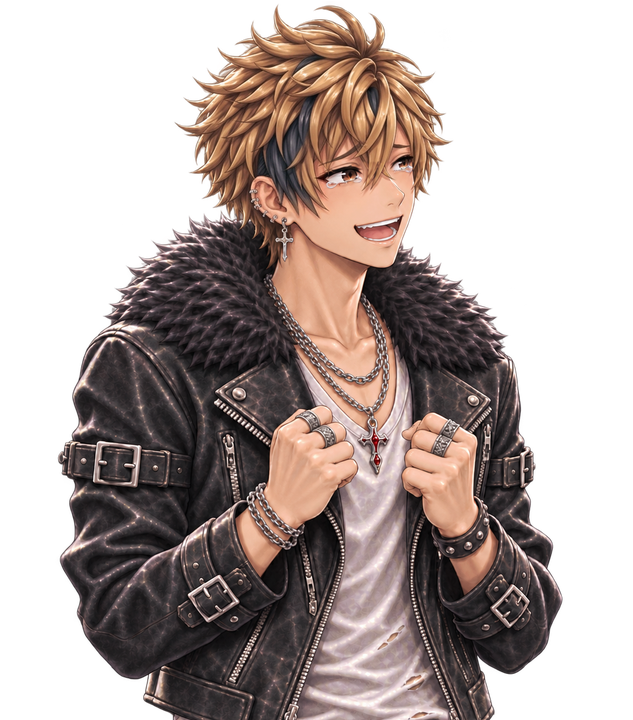
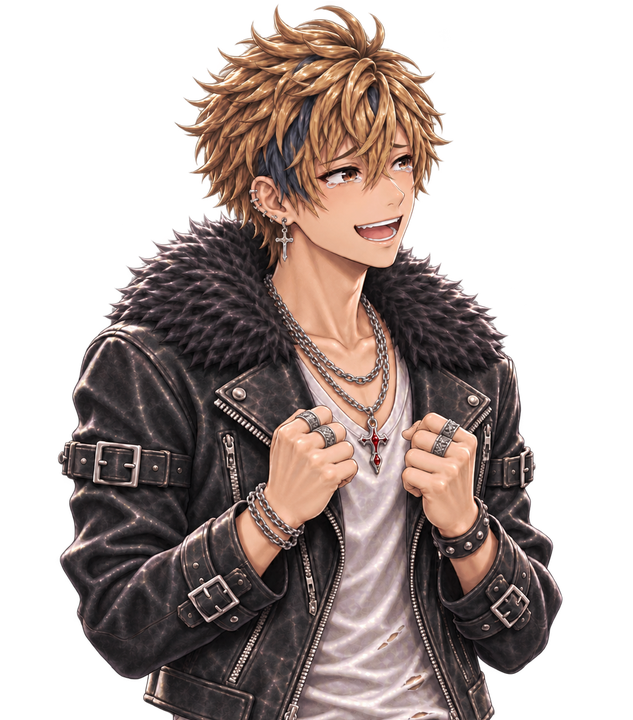
main を v1.0 の中身に戻す（v1.1 はブランチ version-1.1 へ）
版は v1.0 で固定し、v1.0 のあとの直しはブランチ version-1.1 に分けた。
README の遊ぶには を v1.0 の zip に戻し、v1.1 で足したものの記録には「v1.1 だけ」と書いた。

Changed region(s): [[0.3002, 0.0306, 0.6904, 0.3056]]

diff --git a/README.md b/README.md
@@ -13,9 +13,9 @@
 
 ## 遊ぶには（Windows）
 
-Release（https://github.com/fwaohaoi1g168/game1/releases/latest ）の `game1-1.1-win.zip` を落として展開し、`game1\tyranoproject.exe` を起動する。2026-11-08 に作った版（v1.1）で、11/7 に足した、ショップの客のビフォー・アフターの立ち絵と、髪のモアレを直した立ち絵が入っている。作りは ティラノスクリプト v6.03。
+Release（https://github.com/fwaohaoi1g168/game1/releases/latest ）の `game1-win.zip`（v1.0）を落として展開し、`game1\tyranoproject.exe` を起動する。外付けの目の取り込みに使ったのと同じ、2026-11-06 に書き出した版。作りは ティラノスクリプト v6.03。
 
-外付けの目の取り込みに使ったのは、2026-11-06 に書き出した版（Release `v1.0` の `game1-win.zip`）。
+このブランチ（`main`）は v1.0 の中身。v1.0 のあとに直したもの（場面1のショップの客のビフォー・アフターの立ち絵、客とタクミの髪のモアレ）は、ブランチ `version-1.1` と Release `v1.1`（`game1-1.1-win.zip`）にある。下の「作ったもの、借りたもの」などには v1.1 で足したもの・直したものも書いてあり、そこには「v1.1 だけ」と書いた。
 
 ## ライセンス
 
@@ -56,7 +56,7 @@ Built with Claude: Japan 2026 の期間中（2026-11-02 12:30 のキックオフ
 | --- | --- | --- |
 | 台本（`data/scenario/story.ks` など）とゲームの組み立て | Claude Code（Anthropic）が、作者の決めた筋と指示をもとに書いた。作者が読んで直すところを指示した | 11/3〜11/7 |
 | セーブ・ロード・メニューなどの画面の部品、タイトルのボタン（`data/others/koden/`、`data/image/config_koden/`、`data/image/title/koden_*`） | Claude Code が、プログラム（Python の Pillow）で描いた。文字は Windows のメイリオと游明朝 | 11/6 |
-| 背景、人物の立ち絵、一枚絵 | OpenAI の画像生成（Codex に入っているもの）で作った。場面1の客とタクミの立ち絵は、髪の塗りを Google Antigravity の画像生成で直し、Claude Code が書いたプログラムで髪の部分だけを元の絵に重ねた。大きさと位置の調整も Claude Code が書いたプログラムでした | 11/5〜11/7 |
+| 背景、人物の立ち絵、一枚絵 | OpenAI の画像生成（Codex に入っているもの）で作った。場面1の客とタクミの立ち絵は（v1.1 だけ）、髪の塗りを Google Antigravity の画像生成で直し、Claude Code が書いたプログラムで髪の部分だけを元の絵に重ねた。大きさと位置の調整も Claude Code が書いたプログラムでした | 11/5〜11/7 |
 | 声（`data/sound/voice/`、84本） | Gemini TTS（Google）で作った。作る手順は Claude Code が書いた。音声には SynthID の透かしが入る | 11/5〜11/6 |
 | BGM（`data/bgm/`、6曲） | 作者が Gemini（Google）で作った。全部インスト（歌なし） | 11/4〜11/6 |
 | ゲームの仕組み | ティラノスクリプト v6.03（このリポジトリには入れていない） | — |
@@ -64,7 +64,7 @@ Built with Claude: Japan 2026 の期間中（2026-11-02 12:30 のキックオフ
 ### 使った生成 AI の道具とプラン
 
 - 絵：OpenAI の画像生成（Codex に入っているもの）。作者の ChatGPT Plus（有料）のアカウントで使った
-- 絵の直し（客とタクミの髪）：Google Antigravity（CLI）の画像生成。作者の Google AI Pro（有料）で使った
+- 絵の直し（客とタクミの髪。v1.1 だけ）：Google Antigravity（CLI）の画像生成。作者の Google AI Pro（有料）で使った
 - 声：Gemini TTS（Google）。Google Cloud の Vertex AI（使った分を払う有料）で作った。1本（タクミの台詞1つ）だけ Google AI Studio で作った
 - BGM：Gemini アプリ（Google。音楽は Lyria）。作者の Google AI Pro（有料）で作った
 
